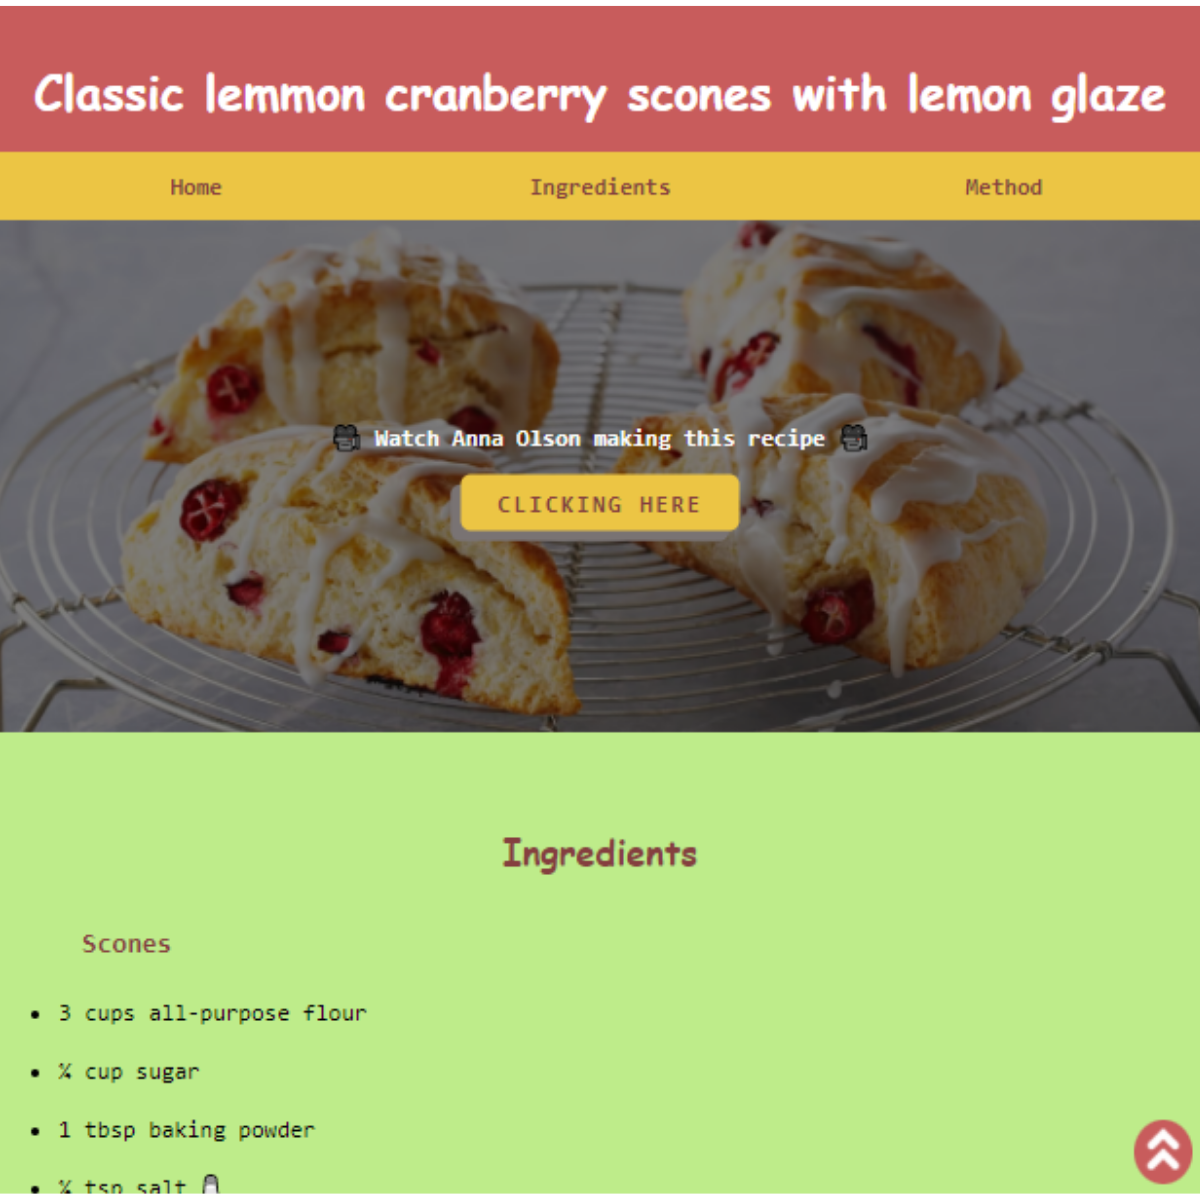
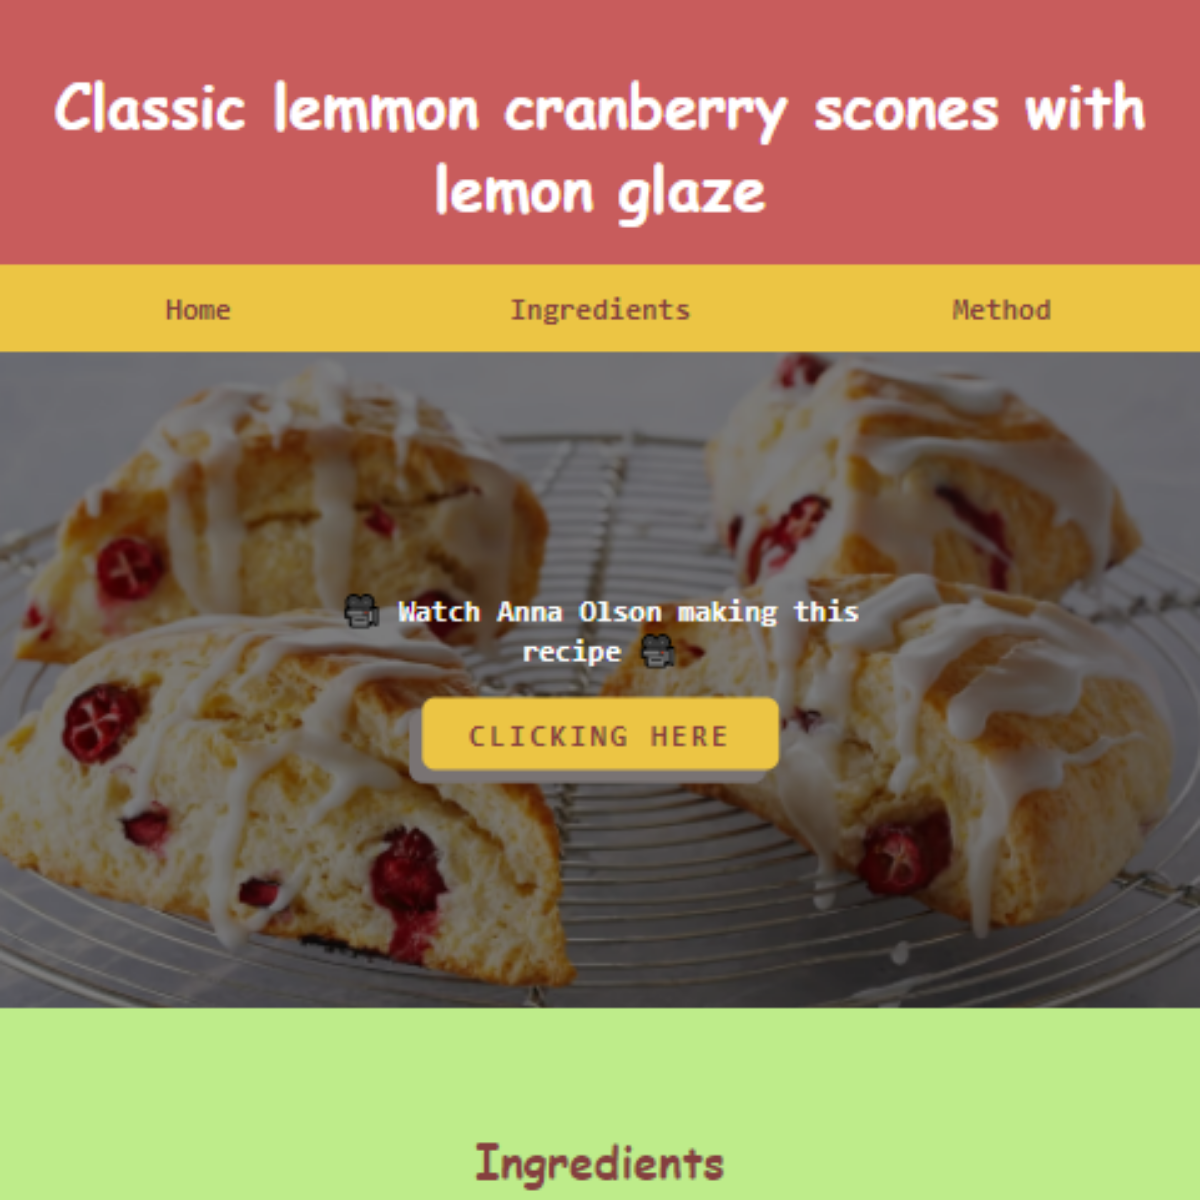
agregue las imagenes a las practicas ya realizadas y corrijo estilos en las viñetas

diff --git a/index.html b/index.html
@@ -19,29 +19,38 @@
       <!-- CLASS 1 -->
       <section class="box class1">
         <div class="content">
-          <img src="./assets/img/class1.png" alt="imagen de la web de la clase 1 con la receta de scones" />
-          <p><a href="https://eugenia1984.github.io/Full-Stack-Numen/class1" target="_blank" rel="noopener noreferrer">Class 1</a></p>
+          <a href="https://eugenia1984.github.io/Full-Stack-Numen/class1" target="_blank" rel="noopener noreferrer">
+            <img src="./assets/img/class1.png" alt="imagen de la web de la clase 1 con la receta de scones"/>
+            <p>Class 1</p> 
+          </a>
+          
         </div>
       </section>
       <!-- Class 2-->
       <section class="box">
         <div class="content">
-          <img src="img/cooking.png" alt="" />
-          <p><a href="https://eugenia1984.github.io/Full-Stack-Numen/class2" target="_blank" rel="noopener noreferrer">Class 2</a></p>
+          <a href="https://eugenia1984.github.io/Full-Stack-Numen/class2" target="_blank" rel="noopener noreferrer">
+            <img src="./assets/img/class2.png" alt="imagen de la web de la clase 2 con la empresa de diseño y arquitectura"/>
+            <p>Class 2</p>
+          </a>
         </div>
       </section>
       <!-- Class 3-->
       <section class="box">
         <div class="content">
-          <img src="img/fever.png" alt="" />
-            <p><a href="https://eugenia1984.github.io/Full-Stack-Numen/class3" target="_blank" rel="noopener noreferrer">Class 3</a></p>
+          <a href="https://eugenia1984.github.io/Full-Stack-Numen/class3" target="_blank" rel="noopener noreferrer">
+            <img src="./assets/img/class3.png" alt="imagen de la web de la clase 3 con el formulario de contacto"/>
+            <p>Class 3</p>
+          </a>
         </div>
       </section>
       <!--Class 4-->
       <section class="box">
         <div class="content">
-          <img src="img/flight.png" alt="" />
-          <p><a href="https://eugenia1984.github.io/Full-Stack-Numen/class4" target="_blank" rel="noopener noreferrer">Class 4</a></p>
+          <a href="https://eugenia1984.github.io/Full-Stack-Numen/class4" target="_blank" rel="noopener noreferrer">
+            <img src="./assets/img/class4.png" alt="imagen de la web de la clase 4 con los sliders con consejos para entrevistas laborales" />
+            <p>Class 4</a></p>
+          </a>
         </div>
       </section>
       <!-- Class 5-->
@@ -58,11 +67,39 @@
           <p>Class 6</p>
         </div>
       </section>
-      <!--CLass 7-->
+      <!--Class 7-->
       <section class="box">
         <div class="content">
           <img src="img/mask.png" alt="" />
-          <p>CLass 7</p>
+          <p>Class 7</p>
+        </div>
+      </section>
+      <!--Class 8-->
+      <section class="box">
+        <div class="content">
+          <img src="img/mask.png" alt="" />
+          <p>Class 8</p>
+        </div>
+      </section>
+      <!--Class 9-->
+      <section class="box">
+        <div class="content">
+          <img src="img/mask.png" alt="" />
+          <p>Class 9</p>
+        </div>
+      </section>
+      <!--Class 10-->
+      <section class="box">
+        <div class="content">
+          <img src="img/mask.png" alt="" />
+          <p>Class 10</p>
+        </div>
+      </section>
+      <!--Class 11-->
+      <section class="box">
+        <div class="content">
+          <img src="img/mask.png" alt="" />
+          <p>Class 11</p>
         </div>
       </section>
     </section>

diff --git a/css/style.css b/css/style.css
@@ -25,7 +25,7 @@
   box-sizing: inherit;
 }
 
-h1 { font-size: 1.75rem; }
+h1 { font-size: 2.75rem; }
 
 h2 { font-size: 1.25rem; }
 
@@ -71,20 +71,36 @@ main{
   transition: 0.5s;
 }
 
+.container .box a p {
+  background-color: var(--sixth-color);
+  border-radius: 0.25rem;
+  padding: 0.10rem 0.50rem;
+  text-align: center;
+  -webkit-border-radius: 0.25rem;
+  -moz-border-radius: 0.25rem;
+  -ms-border-radius: 0.25rem;
+  -o-border-radius: 0.25rem;
+}
+
 .container .box a {
   color: var(--primary-color);
   font-weight: 800;
-  font-size: 1.50rem;
+  font-size: 1.75rem;
+  text-decoration: none;
 }
 
 .container .box:hover{
   background: var(--fifth-color);
 }
 
+.container .box a p:hover {
+  background-color: var(--fourth-color);
+}
+
 .container .box img{
   position: relative;
-  max-width: 100px;
-  margin-bottom: 6px;
+  max-width: 150px;
+  margin-bottom: 3px;
 }
 
 .container .box:nth-child(1) {
@@ -107,8 +123,9 @@ main{
   grid-row: span 1;
 }
 
-@media (max-width: 911px){
+@media (max-width: 578px){
   .container {
+    width: 90%;
     grid-template-columns: repeat(auto-fill, minmax(50%, 1fr));
     grid-template-rows: minmax(auto, auto);
   }
@@ -117,6 +134,19 @@ main{
     grid-row: unset !important;
   }
 }
+
+@media (min-width: 579px) and (max-width: 911px){
+  .container {
+    width: 95%;
+    grid-template-columns: repeat(auto-fill, minmax(30%, 1fr));
+    grid-template-rows: minmax(auto, auto);
+  }
+  .container .box{
+    grid-column: unset !important;
+    grid-row: unset !important;
+  }
+}
+
 
 .class1 {
   background-image: url("https://mdn.mozillademos.org/files/6457/mdn_logo_only_color.png");
